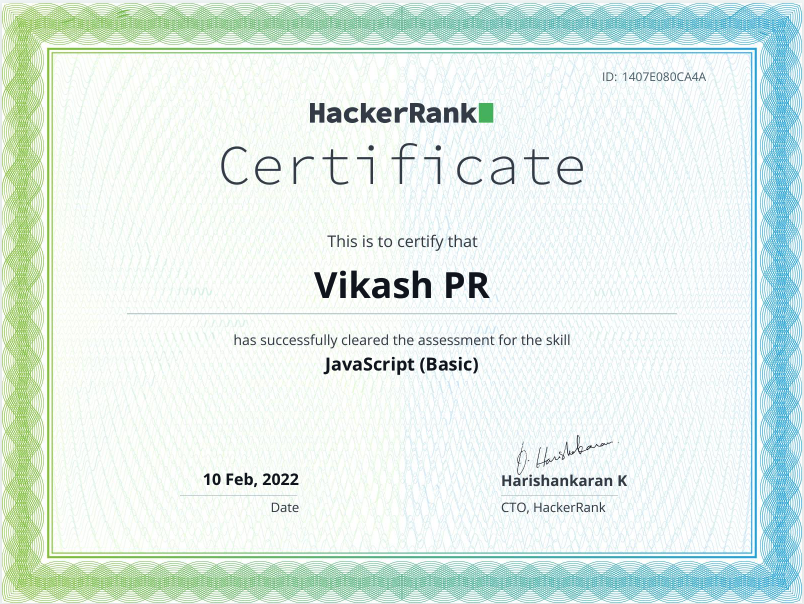
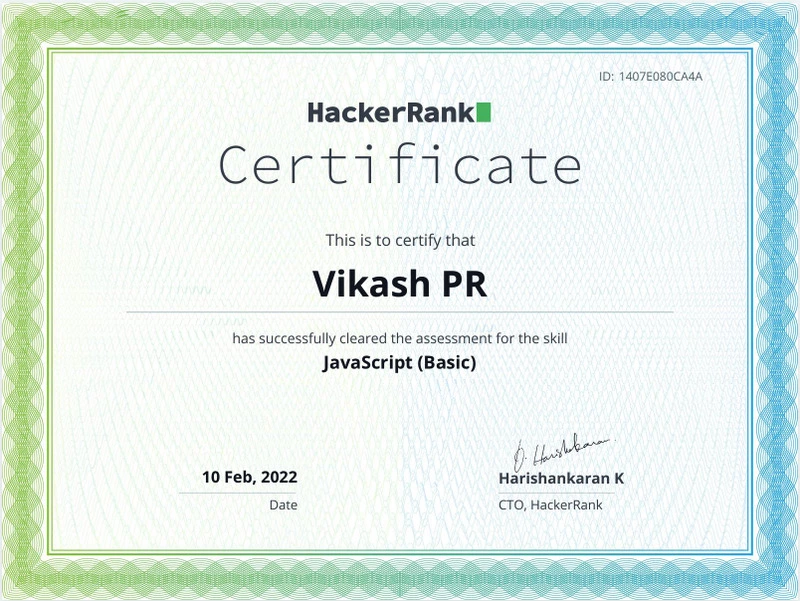
Feat: image prefomance increase in desktop

diff --git a/docs/home.html b/docs/home.html
@@ -193,7 +193,7 @@
                         </div>
                         <div class="certificate-preview certificate-preview1">
                             <img data-modal-target1="#modal" class="preview-modal"
-                                src="./assets/image/certificate-1.webp" alt="">
+                                src="./assets/image/certificatePreview-1.webp" alt="">
                             <div class="modal" id="modal1">
                                 <div class="modal-header">
                                     <div class="dots" data-close-button>
@@ -222,7 +222,7 @@
                         </div>
                         <div class="certificate-preview">
                             <img data-modal-target2="#modal" class="preview-modal"
-                                src="./assets/image/certificate-2.webp" alt="">
+                                src="./assets/image/certificatePreview-2.webp" alt="">
                             <div class="modal" id="modal2">
                                 <div class="modal-header">
                                     <div class="dots" data-close-button>
@@ -251,7 +251,7 @@
                         </div>
                         <div class="certificate-preview">
                             <img data-modal-target3="#modal" class="preview-modal"
-                                src="./assets/image/certificate-3.webp" alt="">
+                                src="./assets/image/certificatePreview-3.webp" alt="">
                             <div class="modal" id="modal3">
                                 <div class="modal-header">
                                     <div class="dots" data-close-button>

diff --git a/docs/assets/css/style.scss b/docs/assets/css/style.scss
@@ -1393,7 +1393,8 @@ footer .footer-bottom {
                 align-items: center;
 
                 .issuer-logo {
-                    max-width: 30px;
+                    width:30px;
+                    height:30px;
                 }
             }
         }
@@ -1469,10 +1470,11 @@ footer .footer-bottom {
 
         .certificate-preview1::before {
             content: 'click to view';
-            text-transform: capitalize;
+            text-transform: uppercase;
             position: absolute;
             left: -40px;
             top: -40px;
+            font-weight:700;
         }
 
         .certificate-preview1::after {
@@ -1505,8 +1507,8 @@ footer .footer-bottom {
             }
 
             .preview-modal {
-                width: 400px;
-                max-width: 80%;
+                width:190px;
+                height:143px;
                 margin: 10px;
             }
 
@@ -1979,6 +1981,20 @@ footer .footer-bottom {
 
                 li {
                     margin-left: 50px;
+                }
+                .item-title{
+                    .issuer-logo{
+                        width:25px;
+                        height:25px;
+                    }
+                } 
+                    
+            }
+            .certificate-preview{
+                .preview-modal {
+                    width:130px;
+                    height:auto;
+                    margin: 10px;
                 }
             }
         }

diff --git a/docs/assets/css/style.css b/docs/assets/css/style.css
@@ -1692,7 +1692,8 @@ footer .footer-bottom .heart {
 }
 
 .education-container .education-wrapper ul.timeline .item-title .issuer-logo {
-  max-width: 30px;
+  width: 30px;
+  height: 30px;
 }
 
 .education-container .education-wrapper ul.timeline li {
@@ -1774,10 +1775,11 @@ footer .footer-bottom .heart {
 
 .education-container .education-wrapper .certificate-preview1::before {
   content: 'click to view';
-  text-transform: capitalize;
+  text-transform: uppercase;
   position: absolute;
   left: -40px;
   top: -40px;
+  font-weight: 700;
 }
 
 .education-container .education-wrapper .certificate-preview1::after {
@@ -1815,8 +1817,8 @@ footer .footer-bottom .heart {
 }
 
 .education-container .education-wrapper .certificate-preview .preview-modal {
-  width: 400px;
-  max-width: 80%;
+  width: 190px;
+  height: 143px;
   margin: 10px;
 }
 
@@ -2298,6 +2300,15 @@ footer .footer-bottom .heart {
   }
   .education-container .education-wrapper ul.timeline li {
     margin-left: 50px;
+  }
+  .education-container .education-wrapper ul.timeline .item-title .issuer-logo {
+    width: 25px;
+    height: 25px;
+  }
+  .education-container .education-wrapper .certificate-preview .preview-modal {
+    width: 130px;
+    height: auto;
+    margin: 10px;
   }
 }
 
